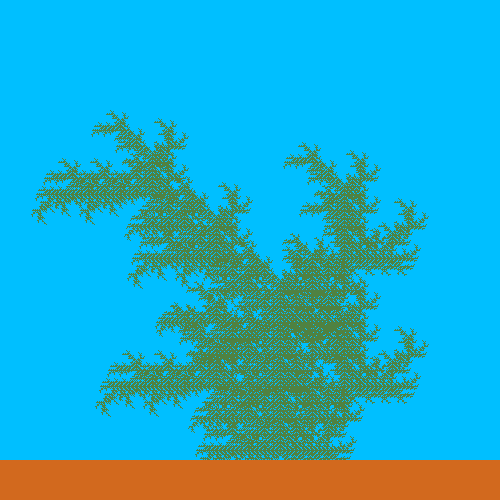
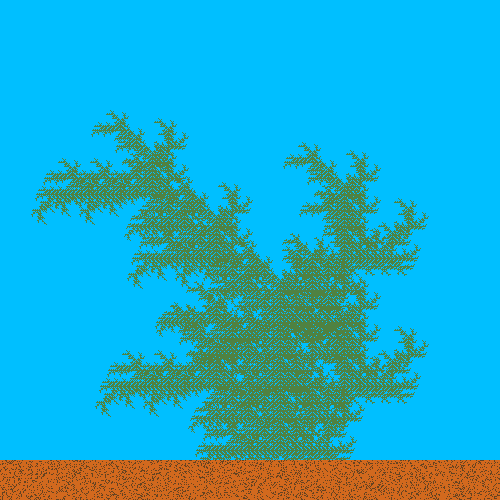
Add texture to sand

Changed region(s): [[0.0, 0.9, 1.0, 1.0]]

diff --git a/main.py b/main.py
@@ -1,6 +1,7 @@
 from display import *
 from draw import *
 import math
+import random
 
 s = new_screen()
 RULES = { 'F' : '-[F]++[F][F]-[F][F]G+[-F]-G[-GF]+F',
@@ -46,8 +47,7 @@ def draw_tree(x, y, inst, init_angle, angle, dist, screen):
 
 for x in range(XRES):
     for y in range(YRES):
-        s[y][x] = [ 0, 191, 255]
-
+        s[y][x] = [0, 191, 255]
 
 color = [31, 47, 26]
 x = init_tree(7, "F")
@@ -55,7 +55,10 @@ draw_tree(XRES - 50, YRES / 2 + 30, x, 270, 35, 1.2, s)
 
 for x in range(XRES):
     for y in range(YRES - 40, YRES):
-        s[y][x] = [210,105,30]
+        if (random.random() < 0.2):
+            s[y][x] = [101, 67, 33]
+        else:
+            s[y][x] = [210,105,30]
 
 """
 c = [ 0, 255, 0 ]
